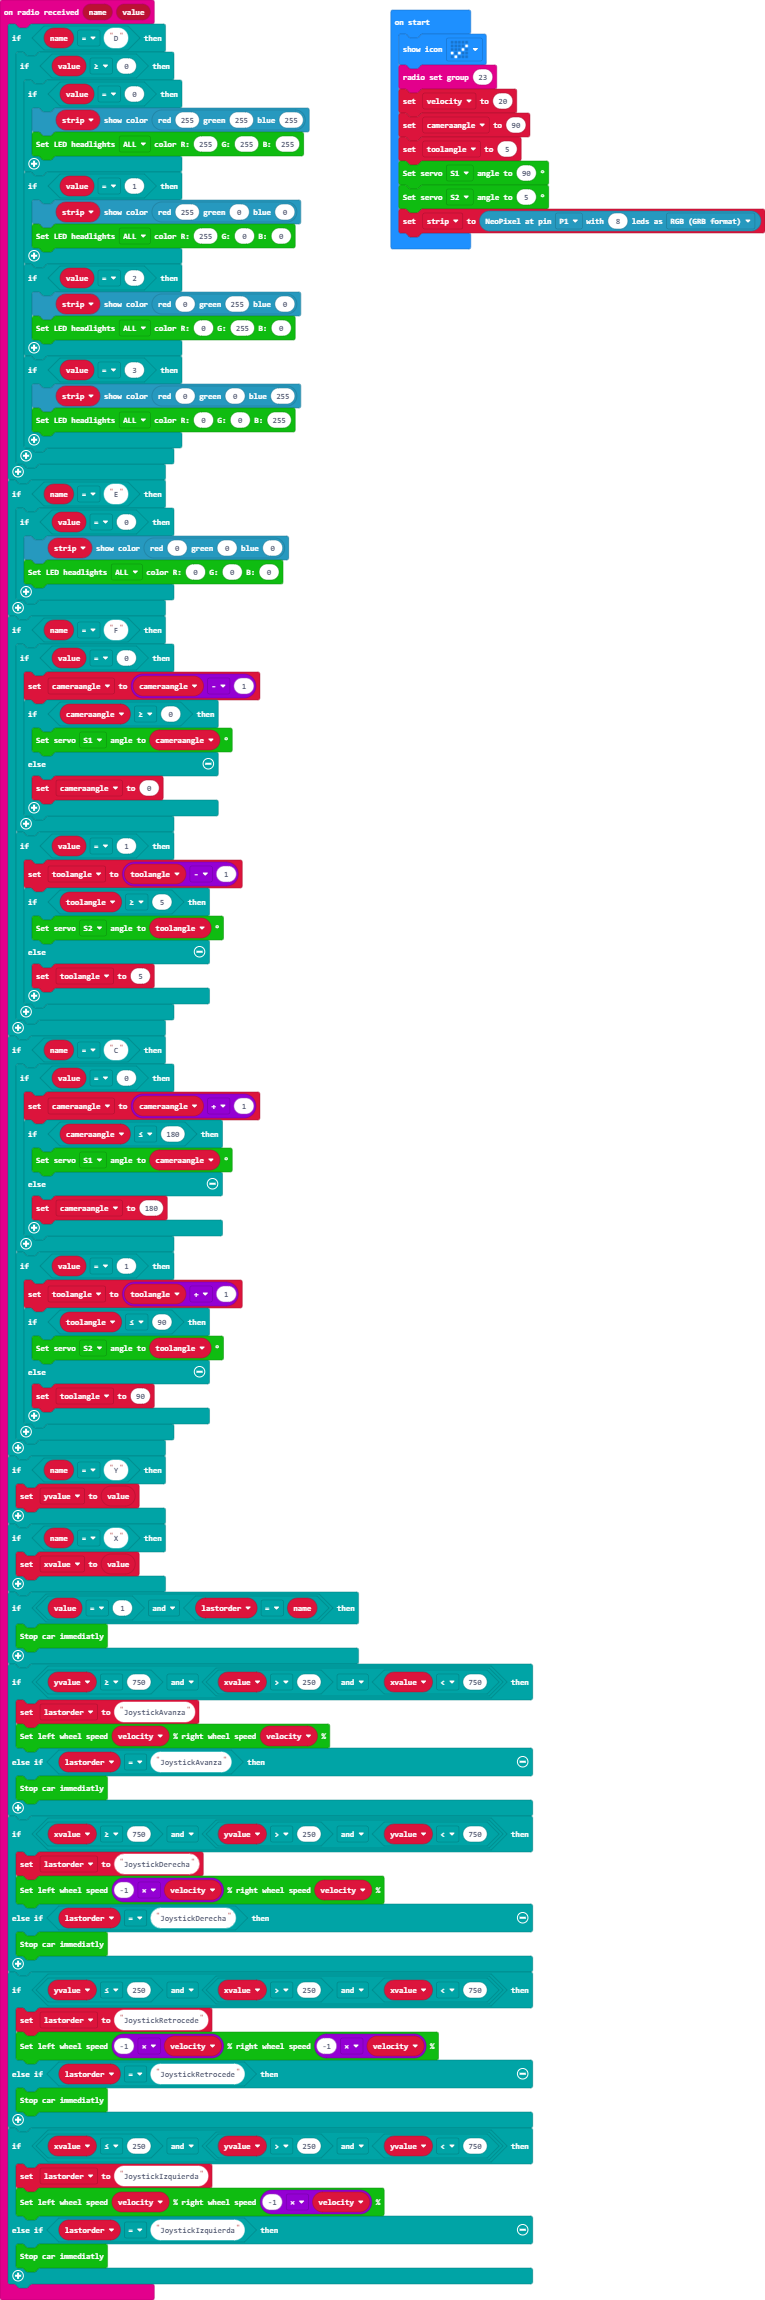
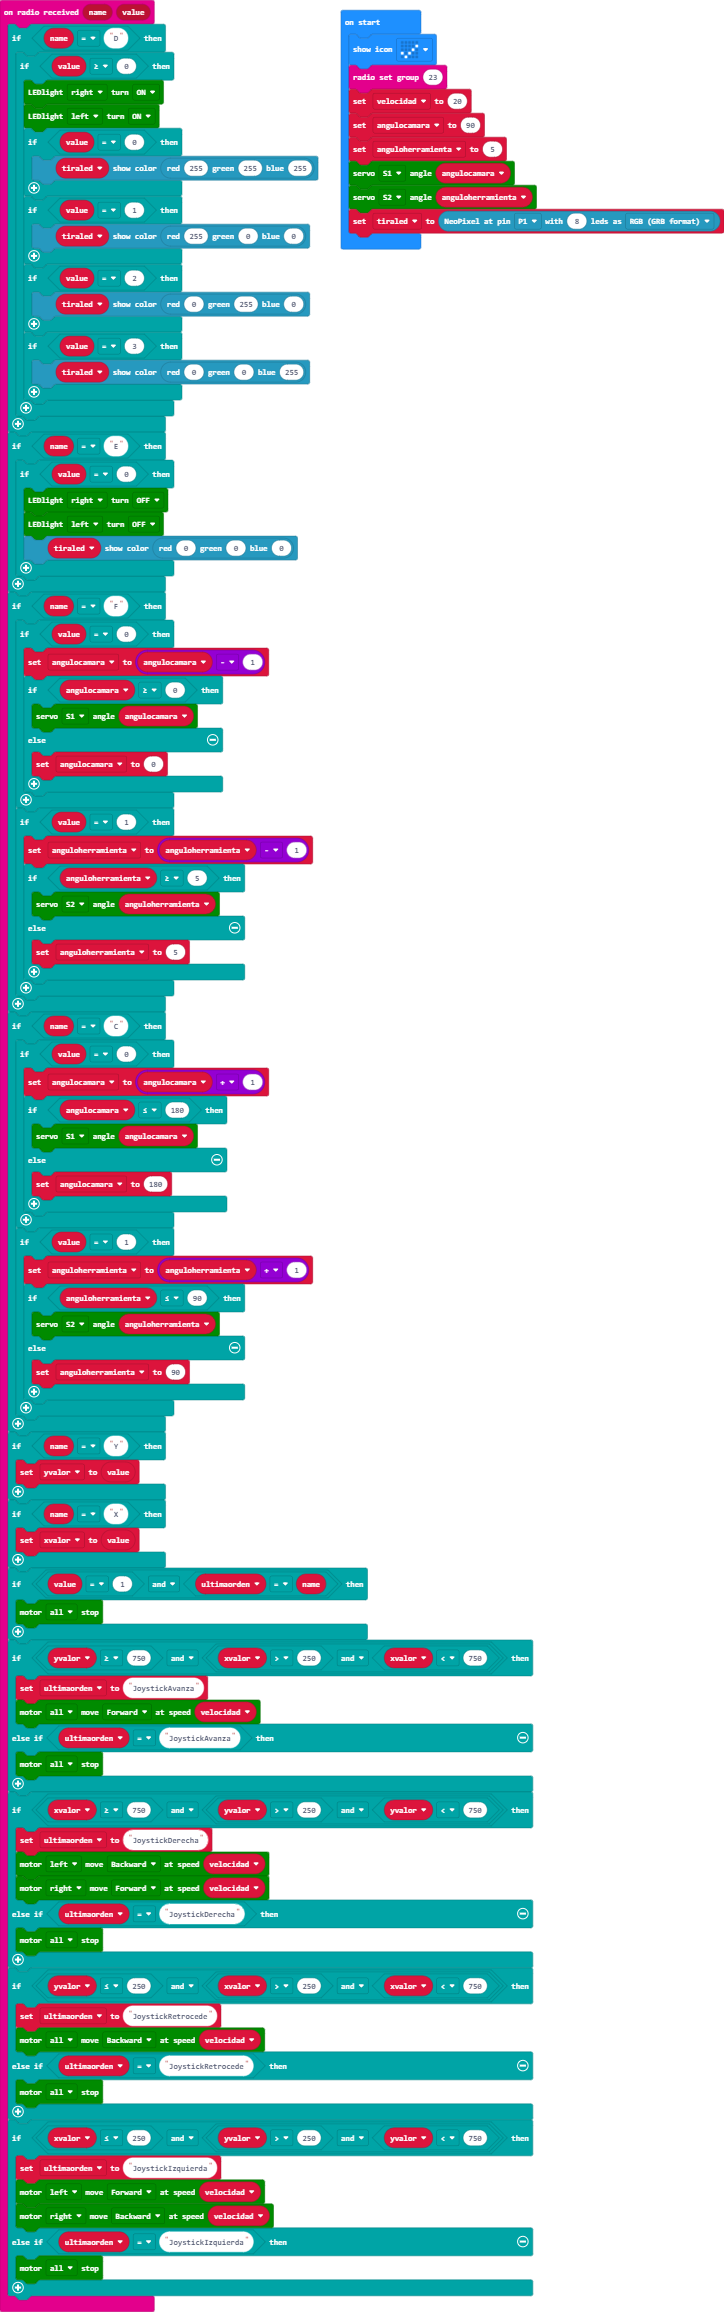
Update main.blocks, main.ts

diff --git a/main.ts b/main.ts
@@ -1,112 +1,113 @@
 radio.onReceivedValue(function (name, value) {
     if (name == "D") {
         if (value >= 0) {
+            maqueen.writeLED(maqueen.LED.LEDRight, maqueen.LEDswitch.turnOn)
+            maqueen.writeLED(maqueen.LED.LEDLeft, maqueen.LEDswitch.turnOn)
             if (value == 0) {
-                strip.showColor(neopixel.rgb(255, 255, 255))
-                cuteBot.singleheadlights(cuteBot.RGBLights.ALL, 255, 255, 255)
+                tiraled.showColor(neopixel.rgb(255, 255, 255))
             }
             if (value == 1) {
-                strip.showColor(neopixel.rgb(255, 0, 0))
-                cuteBot.singleheadlights(cuteBot.RGBLights.ALL, 255, 0, 0)
+                tiraled.showColor(neopixel.rgb(255, 0, 0))
             }
             if (value == 2) {
-                strip.showColor(neopixel.rgb(0, 255, 0))
-                cuteBot.singleheadlights(cuteBot.RGBLights.ALL, 0, 255, 0)
+                tiraled.showColor(neopixel.rgb(0, 255, 0))
             }
             if (value == 3) {
-                strip.showColor(neopixel.rgb(0, 0, 255))
-                cuteBot.singleheadlights(cuteBot.RGBLights.ALL, 0, 0, 255)
+                tiraled.showColor(neopixel.rgb(0, 0, 255))
             }
         }
     }
     if (name == "E") {
         if (value == 0) {
-            strip.showColor(neopixel.rgb(0, 0, 0))
-            cuteBot.singleheadlights(cuteBot.RGBLights.ALL, 0, 0, 0)
+            maqueen.writeLED(maqueen.LED.LEDRight, maqueen.LEDswitch.turnOff)
+            maqueen.writeLED(maqueen.LED.LEDLeft, maqueen.LEDswitch.turnOff)
+            tiraled.showColor(neopixel.rgb(0, 0, 0))
         }
     }
     if (name == "F") {
         if (value == 0) {
-            cameraangle = cameraangle - 1
-            if (cameraangle >= 0) {
-                cuteBot.setServo(cuteBot.ServoList.S1, cameraangle)
+            angulocamara = angulocamara - 1
+            if (angulocamara >= 0) {
+                maqueen.servoRun(maqueen.Servos.S1, angulocamara)
             } else {
-                cameraangle = 0
+                angulocamara = 0
             }
         }
         if (value == 1) {
-            toolangle = toolangle - 1
-            if (toolangle >= 5) {
-                cuteBot.setServo(cuteBot.ServoList.S2, toolangle)
+            anguloherramienta = anguloherramienta - 1
+            if (anguloherramienta >= 5) {
+                maqueen.servoRun(maqueen.Servos.S2, anguloherramienta)
             } else {
-                toolangle = 5
+                anguloherramienta = 5
             }
         }
     }
     if (name == "C") {
         if (value == 0) {
-            cameraangle = cameraangle + 1
-            if (cameraangle <= 180) {
-                cuteBot.setServo(cuteBot.ServoList.S1, cameraangle)
+            angulocamara = angulocamara + 1
+            if (angulocamara <= 180) {
+                maqueen.servoRun(maqueen.Servos.S1, angulocamara)
             } else {
-                cameraangle = 180
+                angulocamara = 180
             }
         }
         if (value == 1) {
-            toolangle = toolangle + 1
-            if (toolangle <= 90) {
-                cuteBot.setServo(cuteBot.ServoList.S2, toolangle)
+            anguloherramienta = anguloherramienta + 1
+            if (anguloherramienta <= 90) {
+                maqueen.servoRun(maqueen.Servos.S2, anguloherramienta)
             } else {
-                toolangle = 90
+                anguloherramienta = 90
             }
         }
     }
     if (name == "Y") {
-        yvalue = value
+        yvalor = value
     }
     if (name == "X") {
-        xvalue = value
+        xvalor = value
     }
-    if (value == 1 && lastorder == name) {
-        cuteBot.stopcar()
+    if (value == 1 && ultimaorden == name) {
+        maqueen.motorStop(maqueen.Motors.All)
     }
-    if (yvalue >= 750 && (xvalue > 250 && xvalue < 750)) {
-        lastorder = "JoystickAvanza"
-        cuteBot.motors(velocity, velocity)
-    } else if (lastorder == "JoystickAvanza") {
-        cuteBot.stopcar()
+    if (yvalor >= 750 && (xvalor > 250 && xvalor < 750)) {
+        ultimaorden = "JoystickAvanza"
+        maqueen.motorRun(maqueen.Motors.All, maqueen.Dir.CW, velocidad)
+    } else if (ultimaorden == "JoystickAvanza") {
+        maqueen.motorStop(maqueen.Motors.All)
     }
-    if (xvalue >= 750 && (yvalue > 250 && yvalue < 750)) {
-        lastorder = "JoystickDerecha"
-        cuteBot.motors(-1 * velocity, velocity)
-    } else if (lastorder == "JoystickDerecha") {
-        cuteBot.stopcar()
+    if (xvalor >= 750 && (yvalor > 250 && yvalor < 750)) {
+        ultimaorden = "JoystickDerecha"
+        maqueen.motorRun(maqueen.Motors.M1, maqueen.Dir.CCW, velocidad)
+        maqueen.motorRun(maqueen.Motors.M2, maqueen.Dir.CW, velocidad)
+    } else if (ultimaorden == "JoystickDerecha") {
+        maqueen.motorStop(maqueen.Motors.All)
     }
-    if (yvalue <= 250 && (xvalue > 250 && xvalue < 750)) {
-        lastorder = "JoystickRetrocede"
-        cuteBot.motors(-1 * velocity, -1 * velocity)
-    } else if (lastorder == "JoystickRetrocede") {
-        cuteBot.stopcar()
+    if (yvalor <= 250 && (xvalor > 250 && xvalor < 750)) {
+        ultimaorden = "JoystickRetrocede"
+        maqueen.motorRun(maqueen.Motors.All, maqueen.Dir.CCW, velocidad)
+    } else if (ultimaorden == "JoystickRetrocede") {
+        maqueen.motorStop(maqueen.Motors.All)
     }
-    if (xvalue <= 250 && (yvalue > 250 && yvalue < 750)) {
-        lastorder = "JoystickIzquierda"
-        cuteBot.motors(velocity, -1 * velocity)
-    } else if (lastorder == "JoystickIzquierda") {
-        cuteBot.stopcar()
+    if (xvalor <= 250 && (yvalor > 250 && yvalor < 750)) {
+        ultimaorden = "JoystickIzquierda"
+        maqueen.motorRun(maqueen.Motors.M1, maqueen.Dir.CW, velocidad)
+        maqueen.motorRun(maqueen.Motors.M2, maqueen.Dir.CCW, velocidad)
+    } else if (ultimaorden == "JoystickIzquierda") {
+        maqueen.motorStop(maqueen.Motors.All)
     }
 })
-let lastorder = ""
-let xvalue = 0
-let yvalue = 0
-let strip: neopixel.Strip = null
-let toolangle = 0
-let cameraangle = 0
-let velocity = 0
+let ultimaorden = ""
+let xvalor = 0
+let yvalor = 0
+let tiraled: neopixel.Strip = null
+let anguloherramienta = 0
+let angulocamara = 0
+let velocidad = 0
 basic.showIcon(IconNames.Yes)
 radio.setGroup(23)
-velocity = 20
-cameraangle = 90
-toolangle = 5
-cuteBot.setServo(cuteBot.ServoList.S1, 90)
-cuteBot.setServo(cuteBot.ServoList.S2, 5)
-strip = neopixel.create(DigitalPin.P1, 8, NeoPixelMode.RGB)
+velocidad = 20
+angulocamara = 90
+anguloherramienta = 5
+maqueen.servoRun(maqueen.Servos.S1, angulocamara)
+maqueen.servoRun(maqueen.Servos.S2, anguloherramienta)
+tiraled = neopixel.create(DigitalPin.P1, 8, NeoPixelMode.RGB)
